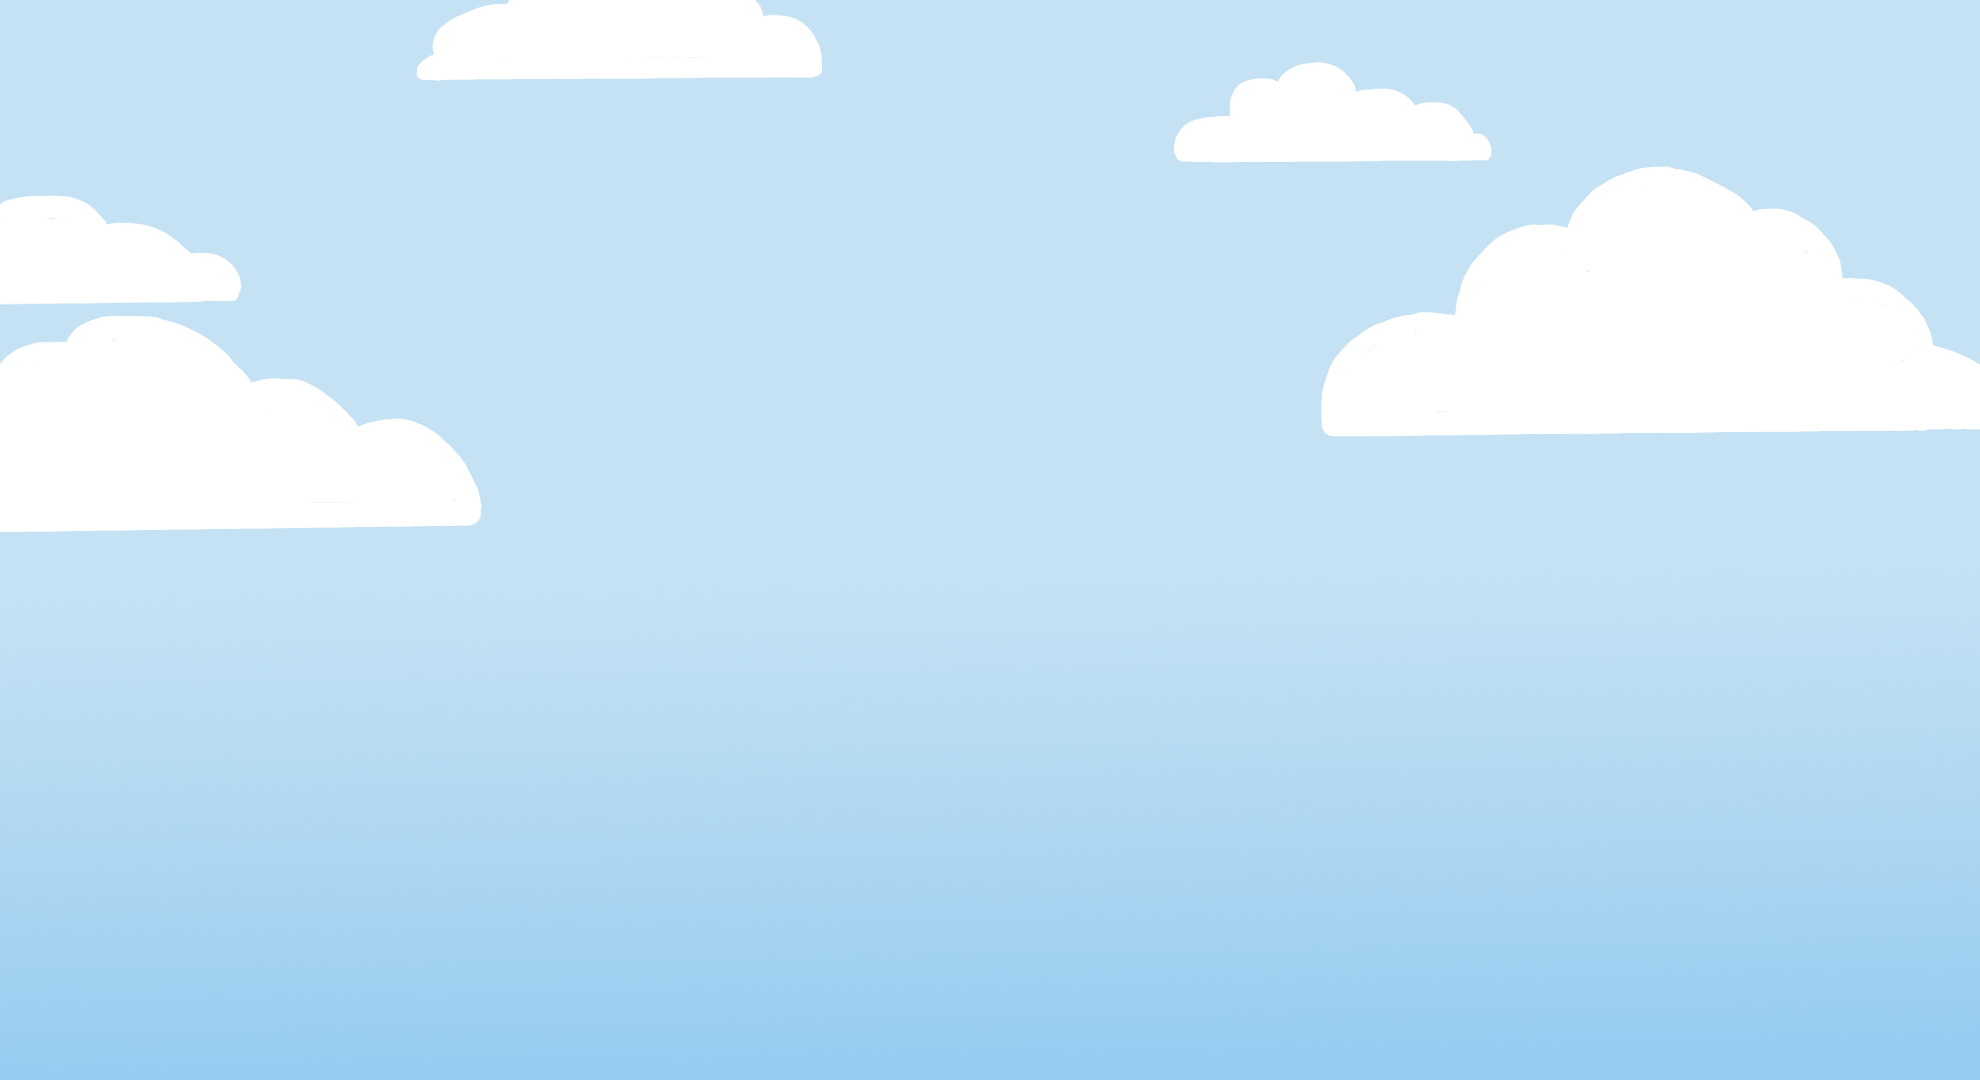
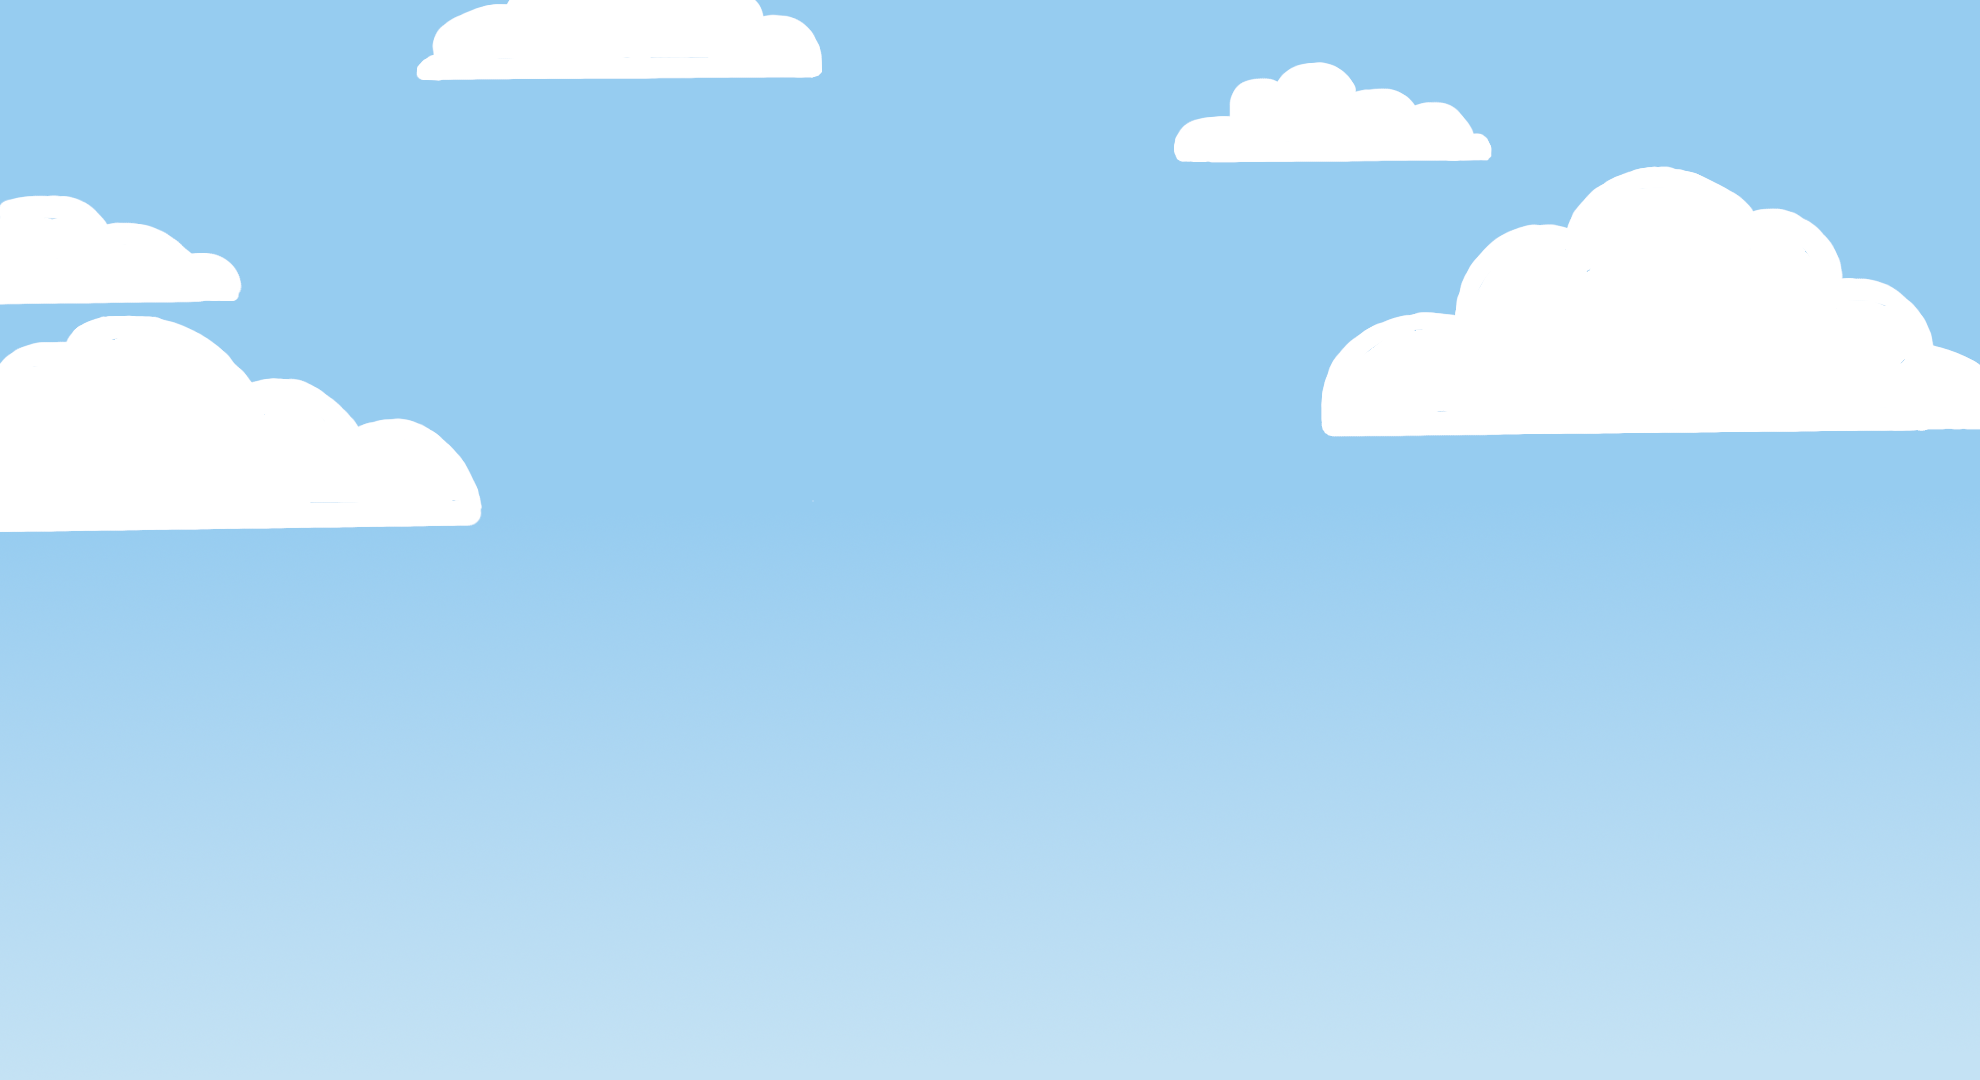
projects colour

diff --git a/style.scss b/style.scss
@@ -28,7 +28,7 @@ body {
   background-image: url('/images/background.png');
   background-repeat: no-repeat;
   @include mobile {
-    background-color: $main-background;
+    background-image: url('/images/background-mobile.png');
   }
 }
 
@@ -526,13 +526,13 @@ nav {
 }
 
 .projects > .project {
-  padding-bottom: 1em;
-  margin-bottom: 10px;
+  padding-bottom: 2em;
+  margin-bottom: 6px;
 }
 
 .projects > .project:last-child {
   padding-bottom: 1em;
-  margin-bottom: 10px;
+  margin-bottom: 6px;
 }
 
 .project {

diff --git a/_sass/_variables.scss b/_sass/_variables.scss
@@ -5,7 +5,8 @@
 
 // Colors
 $blue: #3ca0e3;
-$main-background: #96ccf0;
+$main-background: #c4e2f4;
+$main-background-grad: #96ccf0;
 $footer-background: #73bcec;
 $projects-background: #ecf1f2;
 
